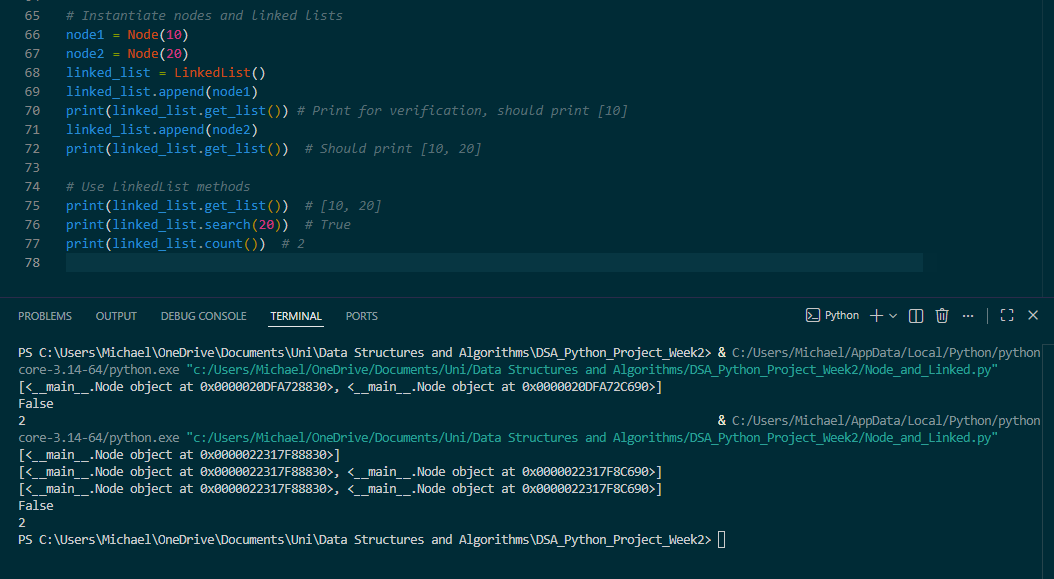
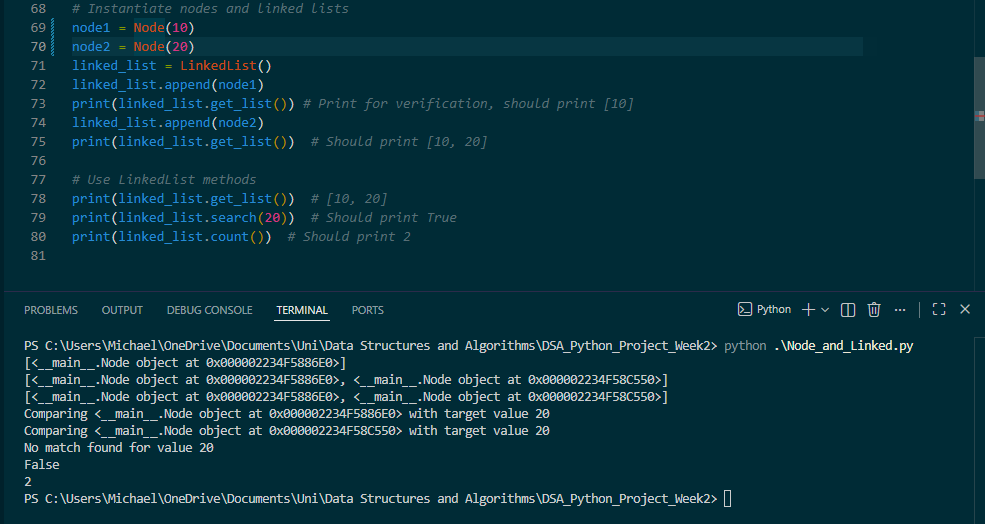
20260320-Additions and fault rectifications to Node and Linked List implementation

Changed region(s): [[0.0, 0.0, 1.0, 0.9771], [0.9746, 0.0916, 1.0, 0.3359], [0.9746, 0.5191, 1.0, 0.5496]]

diff --git a/Node_and_Linked.py b/Node_and_Linked.py
@@ -64,14 +64,12 @@ class LinkedList:
             result.append(current.value)
             current = current.next
         return result
-
-# Instantiate nodes and linked lists
-node1 = 10 # Realised that I don't need to create Node instances directly, as the LinkedList's append method creates them. So I can just use values directly.
-node2 = 20 # This solved the issue of trying to append Node instances, which resulted in showing the memory addresses instead of the values.
+# Error fix. Didnt require the explicit node instantiation for the linked list!
+# Instantiate linked lists
 linked_list = LinkedList()
-linked_list.append(node1)
+linked_list.append(10)
 print(linked_list.get_list()) # Print for verification, should print [10]
-linked_list.append(node2)
+linked_list.append(20)
 print(linked_list.get_list())  # Should print [10, 20]
 
 # Use LinkedList methods
